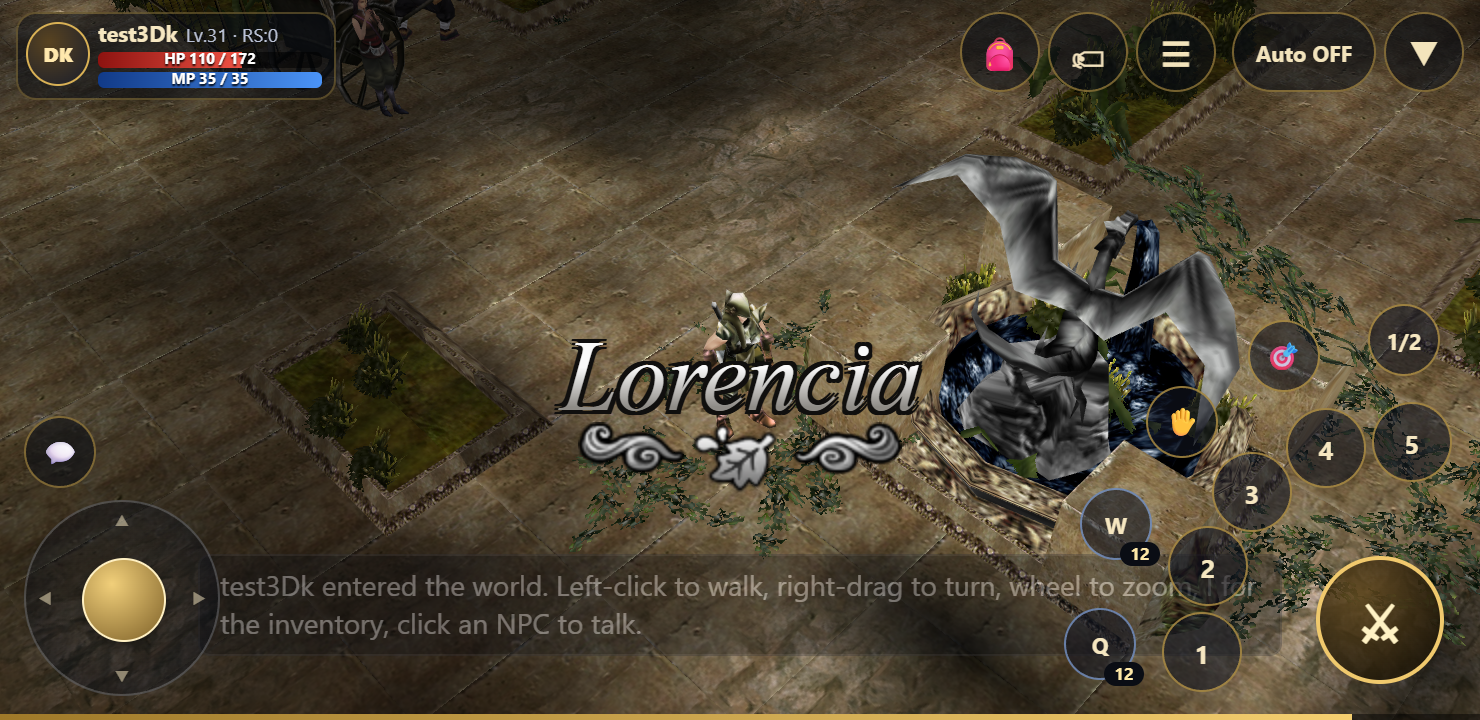
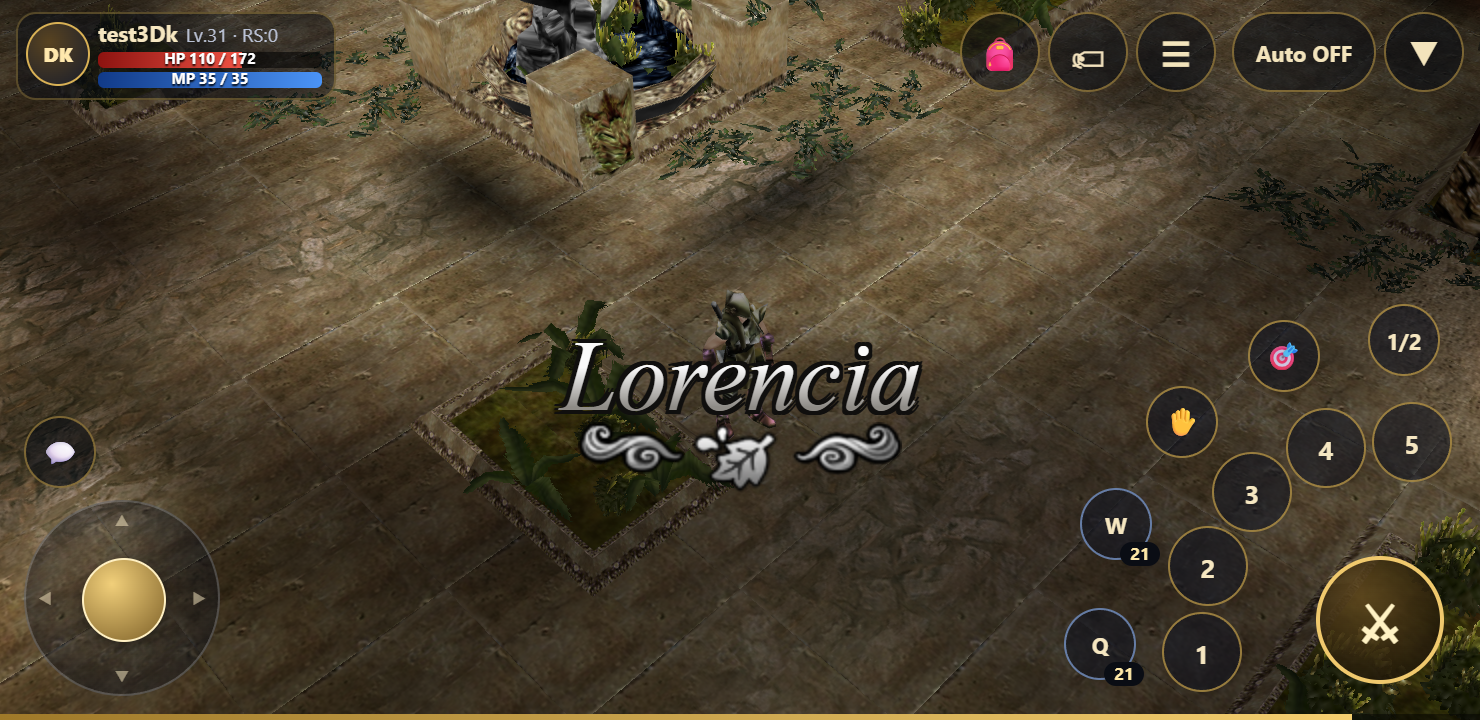
Touch HUD: the "entered the world" hint as a short top toast in touch words
While the touch HUD shows, the status line is a one-line, ellipsised toast at
the top centre under the top row, fading after 4 s (6 s on desktop as before),
and the welcome line says how to play on touch:
EN "Drag the stick to walk, tap a monster to attack, tap an NPC to talk",
VI "Kéo cần để đi, chạm quái để đánh, chạm NPC để nói chuyện".
Desktop wording and place are unchanged.

diff --git a/client/web/src/main.ts b/client/web/src/main.ts
@@ -400,7 +400,8 @@ function setStatus(text: string, progress?: number): void {
   clearTimeout(statusTimer);
   box.style.transition = 'opacity .6s';
   box.style.opacity = '1';
-  if (progress === 1) statusTimer = setTimeout(() => { box.style.opacity = '0'; }, 6000);
+  // The touch HUD's toast goes sooner.
+  if (progress === 1) statusTimer = setTimeout(() => { box.style.opacity = '0'; }, document.body.classList.contains('hnmo-modern-hud') ? 4000 : 6000);
 }
 
 function resize() {
@@ -2456,7 +2457,10 @@ async function playOnline(settings: LoginSettings, ticket?: string, go?: 'arena'
   hideLoadingScreen();
   connection.onClose = () => { vip.reset(); vip.close(); giftBox.reset(); giftBox.close(); setStatus('Disconnected from the server. Reload the page to log in again.'); };
   warmCharacterModels();
-  setStatus(`${character.name} entered the world. Left-click to walk, right-drag to turn, wheel to zoom, I for the inventory, click an NPC to talk.`, 1);
+  // The touch HUD shows this line as a short toast with touch wording (mobileHud.ts styles #loading).
+  setStatus(state.mobileHud.active
+    ? `${character.name}: ${currentLanguage() === 'vi' ? 'Kéo cần để đi, chạm quái để đánh, chạm NPC để nói chuyện' : 'Drag the stick to walk, tap a monster to attack, tap an NPC to talk'}`
+    : `${character.name} entered the world. Left-click to walk, right-drag to turn, wheel to zoom, I for the inventory, click an NPC to talk.`, 1);
 }
 
 function startGame(play: () => Promise<void>): void {

diff --git a/client/web/src/ui/mobileHud.ts b/client/web/src/ui/mobileHud.ts
@@ -330,6 +330,18 @@ body.hnmo-modern-hud .rml-chat_log,
 body.hnmo-modern-hud .rml-system_log,
 body.hnmo-modern-hud .rml-mu_helper_bar { display: none !important; }
 
+/* The status line ("entered the world", …) as a one-line toast, top centre under the top row. */
+body.hnmo-modern-hud #loading {
+  top: max(52px, calc(env(safe-area-inset-top, 0px) + 50px));
+  bottom: auto;
+  width: auto;
+  max-width: min(360px, 46vw);
+  padding: 3px 10px;
+  pointer-events: none;
+}
+body.hnmo-modern-hud #loading #status { white-space: nowrap; overflow: hidden; text-overflow: ellipsis; font-size: 11px; }
+body.hnmo-modern-hud #loading #track { display: none; }
+
 /* HUD size S / M / L (remembered): the HUD's parts and the fight buttons. */
 #mobileHud > *, body.hnmo-modern-hud #touchFight, body.hnmo-modern-hud #touchBar { zoom: var(--mh-scale, 1); }
 
